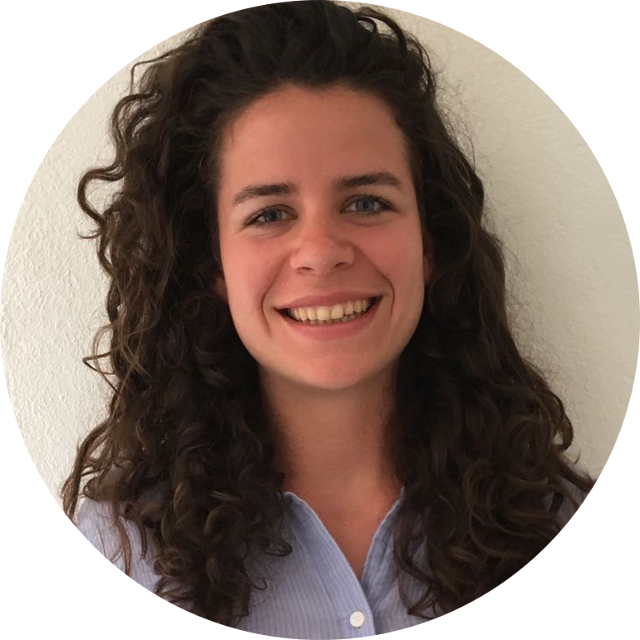
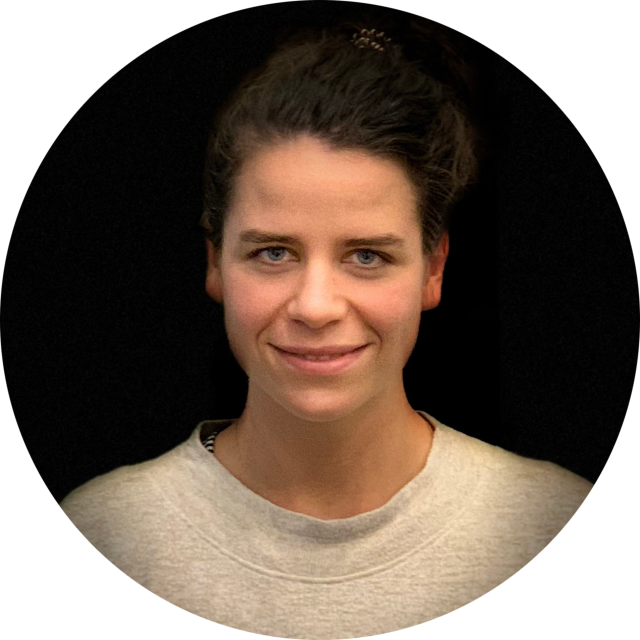
small adjustements and new pictures of us

diff --git a/src/app/home-page/about-us.component.html b/src/app/home-page/about-us.component.html
@@ -13,9 +13,10 @@
             <div class="box-content team">
                 <div class="small-img-box left">
                     <img class="picture" alt="A picture of bruno."
-                        src="/assets/images/about-us/bruno_320.png"
-                        srcset="/assets/images/about-us/bruno_320.png 1x,
-                                /assets/images/about-us/bruno_640.png 2x">
+                        srcset="/assets/images/about-us/bruno_1280.png 4x,
+                                /assets/images/about-us/bruno_640.png 2x,
+                                /assets/images/about-us/bruno_320.png 1x"
+                        src="/assets/images/about-us/bruno_320.png">
                     <h4>Bruno Pace</h4>
                     <p>Database Engineer</p>
                     <div class="social-links-light">
@@ -40,11 +41,12 @@
                 </div>
                 <div class="small-img-box">
                     <img  class="picture" alt="A picture of eike."
-                        src="/assets/images/about-us/eike_320.png"
-                        srcset="/assets/images/about-us/eike_320.png 1x,
-                                /assets/images/about-us/eike_640.png 2x">
+                        srcset="/assets/images/about-us/eike_1280.png 4x,
+                                /assets/images/about-us/eike_640.png 2x,
+                                /assets/images/about-us/eike_320.png 1x"
+                        src="/assets/images/about-us/eike_320.png">
                     <h4>Eike Mücksch</h4>
-                    <p>Main Developer</p>
+                    <p>Lead Developer</p>
                     <div class="social-links-light">
                         <a href="https://twitter.com/Eike_Mck" target="_blank">
                             <img srcset="
@@ -66,11 +68,12 @@
                 </div>
                 <div class="small-img-box left">
                     <img class="picture" alt="A picture of allegra."
-                        src="/assets/images/about-us/allegra_320.png"
-                        srcset="/assets/images/about-us/allegra_320.png 1x,
-                                /assets/images/about-us/allegra_640.png 2x">
+                        srcset="/assets/images/about-us/allegra_1280.png 4x,
+                                /assets/images/about-us/allegra_640.png 2x,
+                                /assets/images/about-us/allegra_320.png 1x"
+                        src="/assets/images/about-us/allegra_320.png">
                     <h4>Allegra Pochtler</h4>
-                    <p>Business Developer</p> 
+                    <p>Project Manager</p> 
                     <div class="social-links-light">
                         <a href="https://www.linkedin.com/in/allegra-pochtler-a4b67a103/" target="_blank">
                             <img srcset="
@@ -84,11 +87,11 @@
                 </div>
                 <div class="small-img-box">
                     <img class="picture" alt="A picture of philipp"
-                        src="/assets/images/about-us/philipp_320.png"
-                        srcset="/assets/images/about-us/philipp_320.png 1x,
-                                /assets/images/about-us/philipp_640.png 2x">
+                        srcset="/assets/images/about-us/philipp_640.png 2x,
+                                /assets/images/about-us/philipp_320.png 1x"
+                        src="/assets/images/about-us/philipp_320.png">
                     <h4>Philipp Beyerlin</h4>
-                    <p>Strategist</p>
+                    <p>Lost</p>
                     <div class="social-links-light">
                         <a href="https://www.linkedin.com/in/philippbeyerlin/" target="_blank">
                             <img srcset="
@@ -102,11 +105,12 @@
                 </div>
                 <div class="small-img-box">
                     <img class="picture" alt="A picture of jonathan"
-                        src="/assets/images/about-us/jonathan_320.png"
-                        srcset="/assets/images/about-us/jonathan_320.png 1x,
-                                /assets/images/about-us/jonathan_640.png 2x">
+                        srcset="/assets/images/about-us/jonathan_1280.png 4x,
+                                /assets/images/about-us/jonathan_640.png 2x,
+                                /assets/images/about-us/jonathan_320.png 1x"
+                        src="/assets/images/about-us/jonathan_320.png">
                     <h4>Jonathan Schlue</h4>
-                    <p>NLP Engineer</p>
+                    <p>Freshness Beauftragter</p>
                     <div class="social-links-light">
                         <a href="https://twitter.com/jonathanschlue" target="_blank">
                             <img srcset="

diff --git a/src/app/home-page/footer.component.html b/src/app/home-page/footer.component.html
@@ -47,7 +47,7 @@
                 <a href="/privacy">Terms & Privacy Policy</a>
             </div>
             <div class="right">
-                <p class="company-copyright">© 2018 TraceMap gemeinnützige UG</p>
+                <p class="company-copyright">© 2018 TraceMap gemeinnützige UG (haftungsbeschränkt)</p>
             </div>
         </div>
     </div>

diff --git a/src/app/home-page/footer.component.scss b/src/app/home-page/footer.component.scss
@@ -113,7 +113,7 @@
                 grid-area: right;
                 p {
                     display: inline;
-                    font-size: 18px;
+                    font-size: 14px;
                 }
             }
 

diff --git a/src/app/multi-use/menu.component.html b/src/app/multi-use/menu.component.html
@@ -1,4 +1,4 @@
-<app-login class="app-login" [color]="color"></app-login>
+<!-- <app-login class="app-login" [color]="color"></app-login> -->
 <div 
 class="menu-button" 
 (click)="openMenu()"
